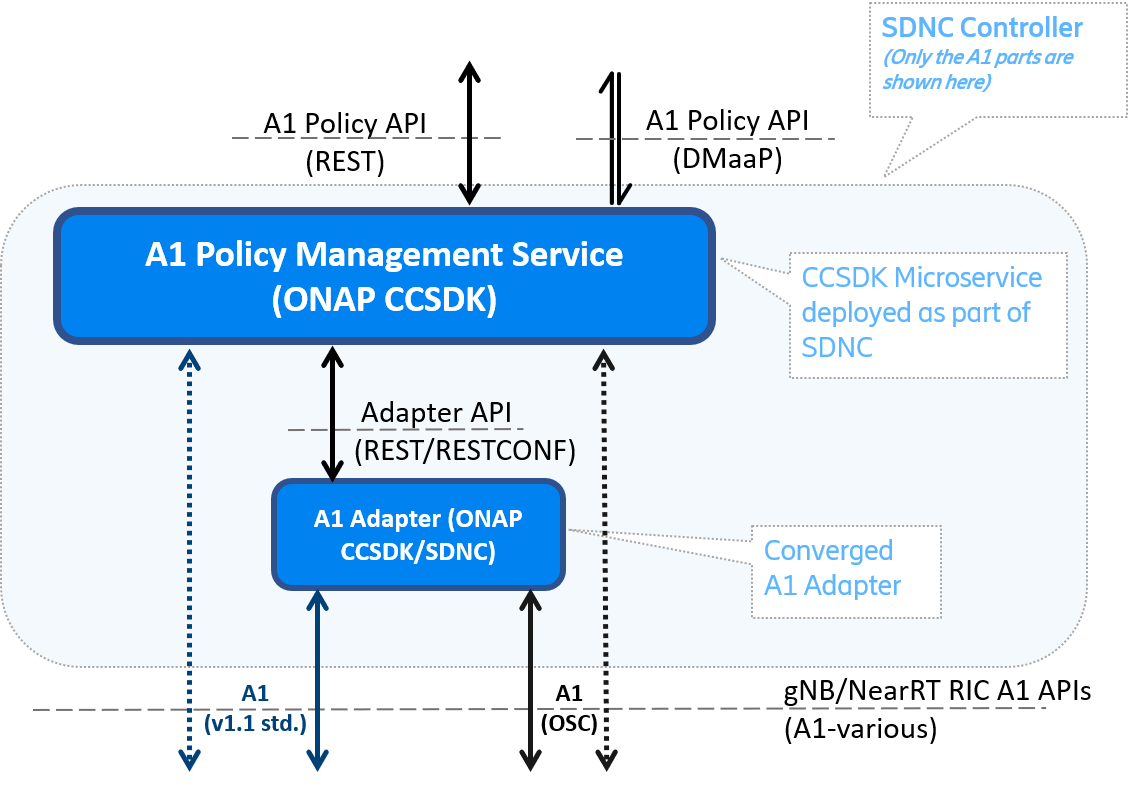
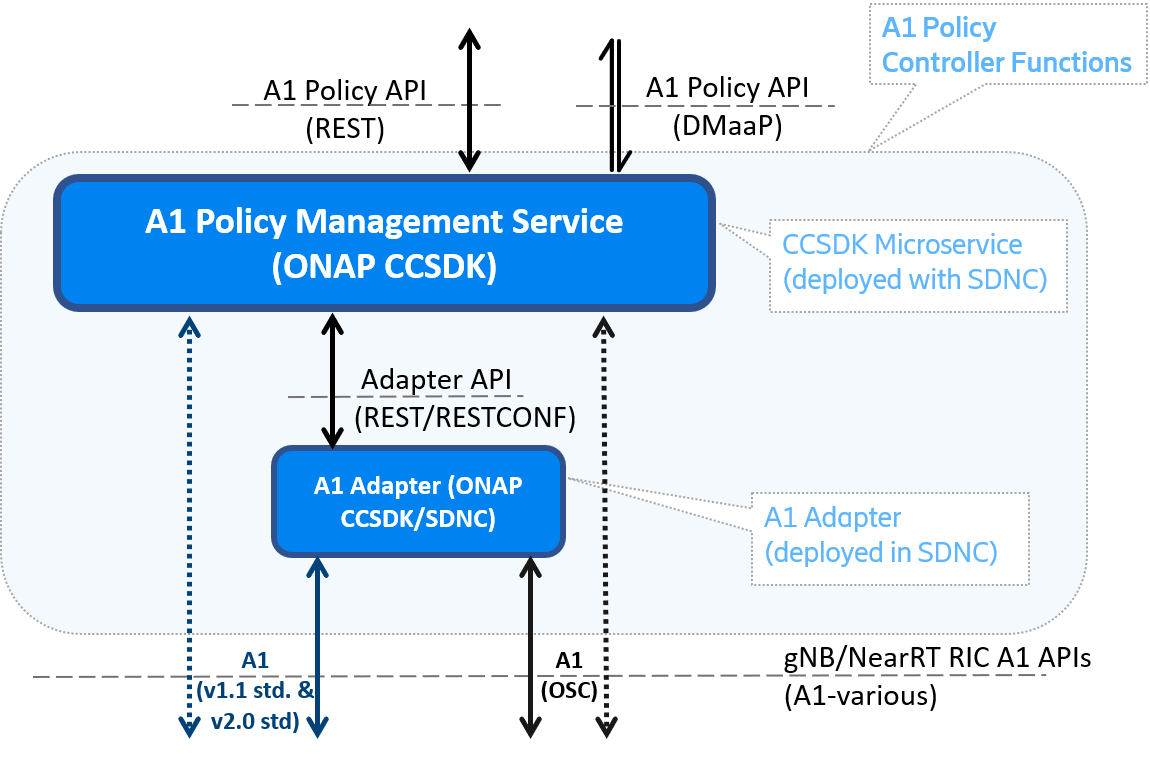
Updating documentation for Honolulu
Issue-ID: CCSDK-3201

diff --git a/docs/guide/developer-guide.rst b/docs/guide/developer-guide.rst
@@ -1,27 +1,27 @@
 .. This work is licensed under a Creative Commons Attribution 4.0 International License.
 .. http://creativecommons.org/licenses/by/4.0
-.. Copyright (C) 2020 Nordix Foundation.
+.. Copyright (C) 2021 Nordix Foundation.
 
 .. _developer_guide:
 
 Developer Guide
 ===============
 
-This document provides a quickstart for developers of the CCSDK ORAN parts.
+This document provides a quickstart for developers of the CCSDK functions for O-RAN A1 Policies.
 
 Source tree
 +++++++++++
 
-This application provides CCSDK Policy Management Service and A1 Adapter as main functional resources.
+This provides CCSDK with "A1 Policy Management Service" and "A1 Adapter" functions.
 Each resource is implemented independently in a package corresponding to its name.
 
 A1 Policy Management Service
 ++++++++++++++++++++++++++++
 
-The CCSDK Policy Management Service (PMS) is a Java 11 web application built over Spring Framework.
+The ONAP CCSDK A1 Policy Management Service is a Java 11 web application built using the Spring Framework.
 Using Spring Boot dependencies, it runs as a standalone application.
 
-PMS provides a REST API for management of policices. It provides support for:
+A1 Policy Management Service provides a REST API for management of policies. It provides support for:
 
  * Supervision of clients (R-APPs) to eliminate stray policies in case of failure
  * Consistency monitoring of the SMO view of policies and the actual situation in the RICs
@@ -32,7 +32,7 @@ PMS provides a REST API for management of policices. It provides support for:
    * Query functions that can find all policies in a RIC, all policies owned by a service (R-APP), all policies of a type etc.
    * Maps O1 resources (ManagedElement) as defined in O1 to the controlling RIC.
 
-The Policy Management Service can be accessed over the REST API. See :ref:`pms_api` for how to use the API.
+The Policy Management Service can be accessed over the REST API, and with an equivalent interface using DMaaP. See :ref:`pms_api` for more information about the API.
 
 Dependencies
 ------------
@@ -53,9 +53,62 @@ dependency management tool (see *pom.xml* file at root level) :
 Configuration
 -------------
 
-There are two configuration files for PMS, *config/application_configuration.json* and *config/application.yaml*.
+There are two configuration files for A1 Policy Management Service, *config/application_configuration.json* and *config/application.yaml*
 The first one contains configuration of data needed by the application, such as which Near-RT RICs
 that are available. The second contains logging and security configurations.
+
+For more information about these configuration files can be found as comments in the sample files provided with the source code, or on the `ONAP wiki <https://wiki.onap.org/display/DW/O-RAN+A1+Policies+in+ONAP+Honolulu>`_
+
+Static configuration (application.yaml)
+---------------------------------------
+
+The file *./config/application.yaml* is read by the application at startup. It provides the following configurable features:
+
+ * server; configuration for the WEB server
+
+   * used port for HTTP/HTTPS, this is however not the port numbers visible outside the container
+   * SSL parameters for setting up using of key store and trust store databases.
+ * webclient; configuration parameters for a web client used by the component
+
+   * SSL parameters for setting up using of key store and trust store databases.
+   * Usage of HTTP(S) Proxy; if configured, the proxy will be used for southbound access to the NearRT-RICs
+
+ * logging; setting of of which information that is logged.
+ * filepath; the local path to a file used for dynamic configuration (if used). See next chapter.
+
+For details about the parameters in this file, see documentation in the file.
+
+Dynamic configuration
+---------------------
+
+The component has configuration that can be updated in runtime. This configuration can either be loaded from a file (accessible from the container) or from a CBS/Consul database (Cloudify). The configuration is re-read and refreshed at regular intervals.
+
+The configuration includes:
+
+ * Controller configuration, which includes information on how to access the a1-adapter
+ * One entry for each NearRT-RIC, which includes:
+
+   * The base URL of the NearRT RIC
+   * A list of O1 identifiers that the NearRT RIC is controlling. An application can query this service which NearRT RIC should be addressed for controlling (for instance) a given Cell.
+   * An optional reference to the controller to use, or excluded if the NearRT-RIC can be accessed directly from this component.
+
+ * Optional configuration for using of DMAAP. There can be one stream for requests to the component and an other stream for responses.
+
+For details about the syntax of the file, there is an example in source code repository */config/application_configuration.json*. This file is also included in the docker container */opt/app/policy-agent/data/application_configuration.json_example*.
+
+Using CBS/Consul database for dynamic configuration
+---------------------------------------------------
+
+The access of CBS is setup by means of environment variables. There is currently no support for setting these at on boarding.
+
+The following variables are required by the CBS:
+
+ * CONSUL_HOST
+ * CONSUL_PORT
+ * CONFIG_BINDING_SERVICE
+ * SERVICE_NAME
+
+
 
 Configuration of certs
 ----------------------
@@ -90,6 +143,6 @@ Example docker run command for mounting new files (assuming they are located in 
 A1 Adapter (Internal)
 +++++++++++++++++++++
 
-The O-RAN A1 Adapter provides an internal REST CONF API for management of A1 policices, useful for test and verification.
+The O-RAN A1 Adapter provides an **internal** RESTCONF API that is used by the A1 Policy Management System when accessing the A1 Interface. This API is useful for test and verification but should not used otherwise.
 
-The A1 Adapter can be accessed over the REST CONF API. See :ref:`a1_adapter_api` for how to use the API.
+See :ref:`a1_adapter_api` for details of this internal API.

diff --git a/docs/offeredapis/offeredapis.rst b/docs/offeredapis/offeredapis.rst
@@ -10,15 +10,15 @@ Offered APIs
 ============
 
 Introduction
-************
+------------
 
-The north bound REST API of the Policy Management Service provides convenient methods to handle policies.
+The north bound REST API of the A1 Policy Management Service provides convenient methods to handle policies.
 
 
-Overview
-************************
+Overall architecture for O-RAN A1 Policy functions
+--------------------------------------------------
 
-Following illustration provides a global view about **ORAN** architecture,
+This picture provides a overview of ONAP's A1 Controller architecture,
 integration with other ONAP components and API resource/operation provided.
 
 .. image:: ../media/ONAP-A1ControllerArchitecture.png
@@ -26,26 +26,15 @@ integration with other ONAP components and API resource/operation provided.
 
 
 API Version
-***********
+-----------
 
 APIs are described with a  state version with "v" following the API Name,
 e.g.:  ``v2/policy``.
 The schema associated with a REST API must have its version number aligned
 with that of the REST API.
 
-The version number has major, minor and revision numbers. E.g. v1.0.0
-The version number (without the revision number) is held in the URI.
-
-The major version number is incremented for an incompatible change.
-The minor version number is incremented for a compatible change.
-For minor modifications of the API, version numbering must not be updated,
-
-For major modifications of the API, not backward compatible and forcing client
-implementations to be changed, the major version number must be updated.
-
-
 API Table
-*********
+---------
 
 .. |swagger-icon| image:: ../media/swagger.png
                   :width: 40px
@@ -58,19 +47,22 @@ API Table
    :header: "API name", "|swagger-icon|", "|yaml-icon|"
    :widths: 10,5, 5
 
-   "PMS API", ":download:`link <./swagger/pms-api.json>`", ":download:`link <./swagger/pms-api.yaml>`"
+   "A1 Policy Management Service API (NBI)", ":download:`link <./swagger/pms-api.json>`", ":download:`link <./swagger/pms-api.yaml>`"
    "A1 ADAPTER API (Internal)", ":download:`link <./swagger/a1-adapter-api.json>`", ":download:`link <./swagger/a1-adapter-api.yaml>`"
-
 
 .. _pms_api:
 
-PMS API
-.......
-`PMS API <./pms-api.html>`_
+A1 Policy Management Service API
+................................
+
+The A1 Policy Management Service API is described in more detail in `A1 Policy Management Service API (html) <./pms-api.html>`_
+
 
 .. _a1_adapter_api:
 
 A1 ADAPTER API
 ..............
-`A1 ADAPTER API (Internal) <./a1-adapter-api.html>`_
 
+The O-RAN A1 Adapter provides an **internal** RESTCONF API that is used by the A1 Policy Management System when accessing the A1 Interface. This API is useful for test and verification but should not be used otherwise.
+
+The A1 Adapter API is described in more detail in `A1 ADAPTER API (html) <./a1-adapter-api.html>`_

diff --git a/docs/consumedapis/consumedapis.rst b/docs/consumedapis/consumedapis.rst
@@ -1,5 +1,5 @@
 .. SPDX-License-Identifier: CC-BY-4.0
-.. Copyright 2020 Nordix Foundation
+.. Copyright 2021 Nordix Foundation
 
 Consumed APIs
 =============
@@ -11,26 +11,22 @@ Policy Management Service application is interacting with two ONAP APIs and the 
 CBS API
 *******
 
-The CBS API is used to get the dynamic configuration of the service, such as available Near-RT RICs.
-
-::
-
-    CBS_GET_ALL
+If *Consul* is used for configuring the A1 Policy Management Service the `ONAP DCAE Config Binding Service <https://docs.onap.org/projects/onap-dcaegen2/en/latest/sections/apis/configbinding.html>`_ is used. 
 
 *********
 DMAAP API
 *********
 
-The DMaaP API is used to provide the possibility to interact with the Policy Management Service through DMaaP Message
-Router.
+The A1 Policy Management Service API can also be accessed using *ONAP DMaaP*. To support this the `DMaaP Message Router API <https://docs.onap.org/projects/onap-dmaap-messagerouter-messageservice/en/latest/offeredapis/api.html>`_ is used.  
 
-::
+*****************************************
+O-RAN A1 interface for A1 Policies (A1-P)
+*****************************************
 
-    DMAAP_GET_EVENTS
+Southbound, the ONAP A1 Policy functions communicate with *near-RT-RIC* RAN functions using the **A1** interface, as defined by the `O-RAN Alliance <https://www.o-ran.org>`_   
+The *A1 Interface - Application Protocol Specification (A1-AP)* describe this interface. The specification can be viewed from the `O-RAN Alliance <https://www.o-ran.org>`_ website. 
 
-********
-A1-P API
-********
+The **Honolulu** ONAP A1 Policy functions implement the *A1 Policy* parts (*A1-P*) of A1-AP versions *v1.1* and *v2.0*
+    
+An opensource implementation of a `near-RT-RIC <https://wiki.o-ran-sc.org/pages/viewpage.action?pageId=1179659>`_ is available from `O-RAN Software Community <https://o-ran-sc.org>`_. It supports a pre-spec version of the A1-AP. The ONAP A1 Policy functions described here also supports this A1 version (A1-OSC). 
 
-The A1-P API is used to communicate with the Near-RT RICs (north bound). All endpoints of the OSC A1 REST API and the
-standard A1 REST API version 1.1 are used.

diff --git a/docs/architecture/architecture.rst b/docs/architecture/architecture.rst
@@ -1,5 +1,5 @@
 .. SPDX-License-Identifier: CC-BY-4.0
-.. Copyright 2020 Nordix Foundation
+.. Copyright 2021 Nordix Foundation
 .. _architecture:
 
 
@@ -11,14 +11,16 @@ Introduction
 ************
 
 
-The CCSDK ORAN components provides handling of the O-RAN A1 interface.
+The CCSDK ORAN components add support for handling "A1 Policies" as defined for the O-RAN A1 interface.
+
+The O-RAN A1 interface is defined by the `O-RAN Alliance <https://www.o-ran.org>`_
 
 
 *********************************************
-Global NBI architecture for Frankfurt release
+Architecture for ONAP Honolulu release
 *********************************************
 
-Following illustration provides a global view about Non-Real-Time-RIC architecture,
+This picture provides a overview of ONAP's A1 Controller architecture,
 integration with other ONAP components and API resource/operation provided.
 
 .. image:: ../media/ONAP-A1ControllerArchitecture.png
@@ -29,5 +31,5 @@ integration with other ONAP components and API resource/operation provided.
 Developer Guide
 ***************
 
-Technical information about the ORAN components (dependencies, configuration, running & testing) could be found in :ref:`developer_guide`.
+Technical information about the O-RAN components (dependencies, configuration, running & testing) can be found in :ref:`developer_guide`.
 

diff --git a/docs/humaninterfaces/humaninterfaces.rst b/docs/humaninterfaces/humaninterfaces.rst
@@ -1,11 +1,11 @@
 .. SPDX-License-Identifier: CC-BY-4.0
-.. Copyright 2020 Nordix Foundation
+.. Copyright 2021 Nordix Foundation
 
 
 Human Interfaces
 ================
 
 The NON-RT RIC Control Panel in O-RAN-SC can be used to interact with the Policy Management Service.
-See `NON-RT RIC Control Panel repo <https://gerrit.o-ran-sc.org/r/admin/repos/portal/nonrtric-controlpanel>`_.
+See `NON-RT RIC Control Panel repo <https://gerrit.o-ran-sc.org/r/admin/repos/portal/nonrtric-controlpanel>`_ from the `O-RAN-SC NONRTRIC Project <https://wiki.o-ran-sc.org/display/RICNR>`_. 
 
-Any "Rest Client" application may be used (Postman, ...) to interact with the Policy Management Service application.
+Any "Rest Client" application may be used (Postman, ...) to interact with the Policy Management Service application via the :ref:`A1 Policy Management Service API<offered_apis>`_
